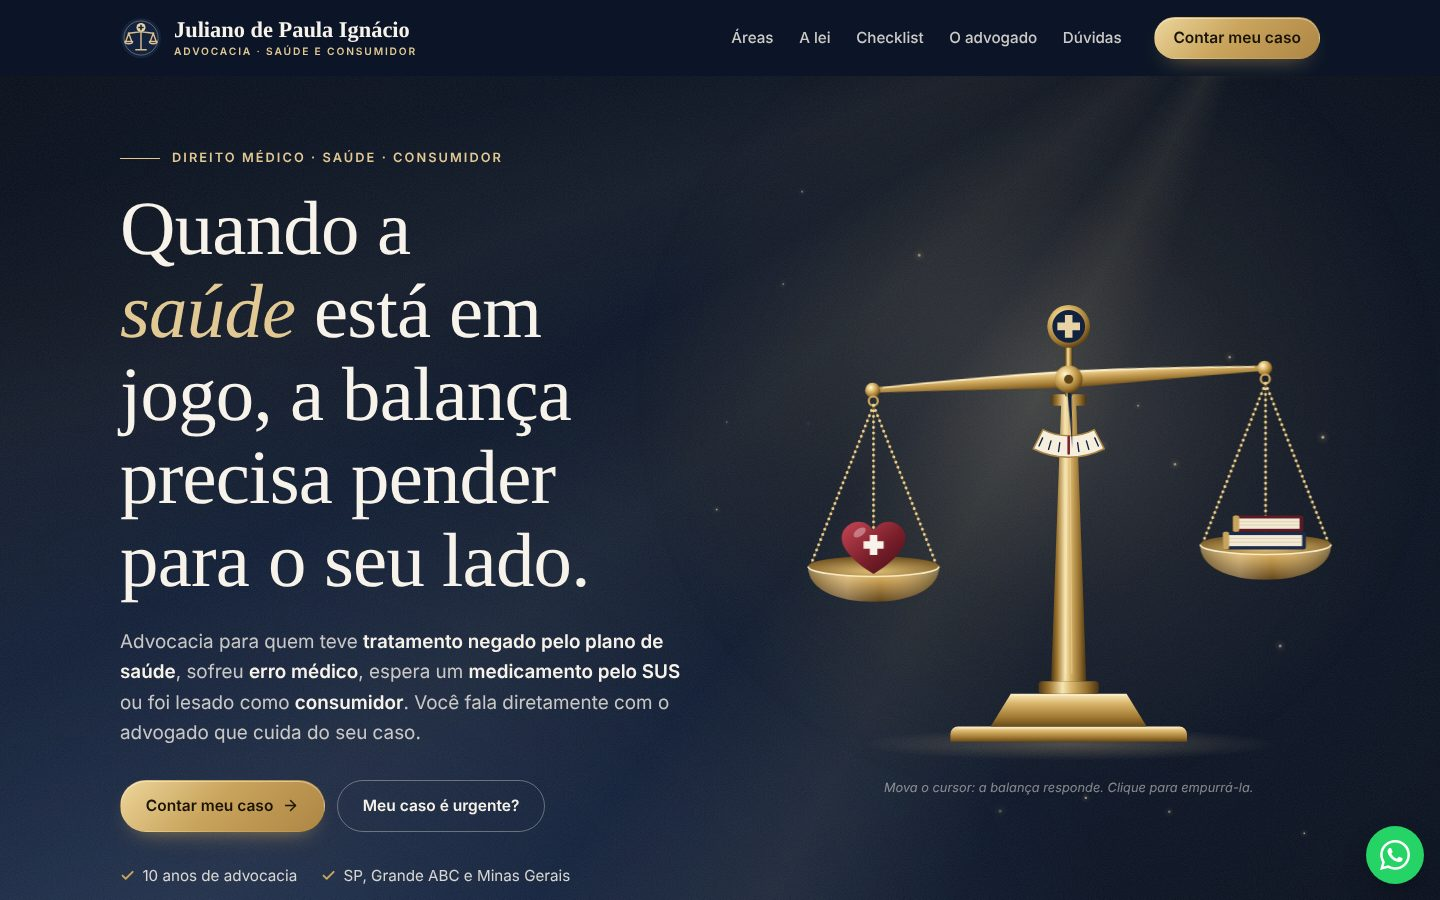
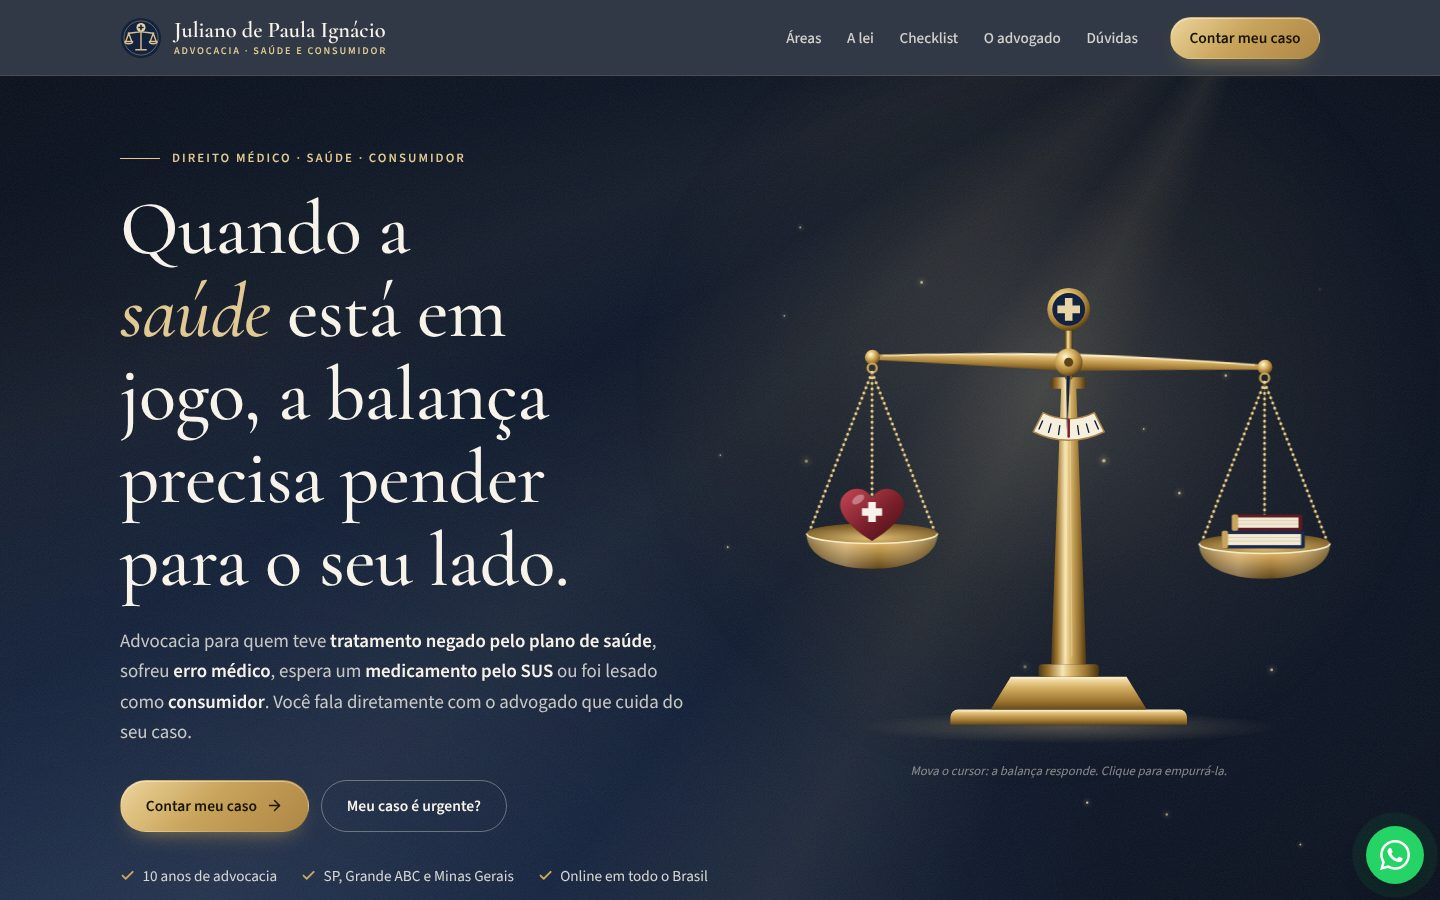
Juliano: camada de vidro, luzes que seguem o cursor e assinatura no rodapé
Claude-Session: https://claude.ai/code/session_01QmiPwcu1vZC3FNQj5DnVy9

diff --git a/modelos/juliano-advocacia/assets/vidro.css b/modelos/juliano-advocacia/assets/vidro.css
@@ -1,0 +1,59 @@
+/* Camada de vidro: translucidez, luz e acabamento sobre o layout original */
+.site-header {
+  background: rgba(11, 21, 39, 0.84);
+  -webkit-backdrop-filter: blur(18px) saturate(1.5);
+  backdrop-filter: blur(18px) saturate(1.5);
+  box-shadow: inset 0 -1px 0 rgba(201, 164, 92, 0.18);
+}
+.site-header.is-scrolled { box-shadow: inset 0 -1px 0 rgba(201, 164, 92, 0.25), 0 18px 40px -26px rgba(0, 0, 0, 0.8); }
+
+/* luzes douradas que se movem por trás do vidro nas seções escuras */
+.section--dark, .credentials, .site-footer { position: relative; isolation: isolate; overflow: clip; }
+.section--dark::after, .site-footer::after {
+  content: ""; position: absolute; z-index: -1; inset: -20%; pointer-events: none;
+  background:
+    radial-gradient(28% 34% at var(--lx, 22%) var(--ly, 30%), rgba(201, 164, 92, 0.16), transparent 70%),
+    radial-gradient(30% 40% at 85% 80%, rgba(80, 120, 200, 0.12), transparent 70%);
+  animation: vidro-luz 18s ease-in-out infinite alternate;
+}
+@keyframes vidro-luz { to { transform: translate(6%, -4%) scale(1.08); } }
+
+/* vidro claro */
+.tabs__panel, .deadlines li {
+  background: rgba(255, 253, 248, 0.58);
+  -webkit-backdrop-filter: blur(20px) saturate(1.4);
+  backdrop-filter: blur(20px) saturate(1.4);
+  box-shadow: inset 0 0 0 1px rgba(255, 255, 255, 0.7), inset 0 1px 0 #fff, 0 30px 60px -40px rgba(19, 35, 63, 0.55);
+}
+.section--light, .section--paper { position: relative; isolation: isolate; }
+.section--light::after, .section--paper::after {
+  content: ""; position: absolute; z-index: -1; inset: 0; pointer-events: none;
+  background: radial-gradient(30% 40% at 12% 30%, rgba(201, 164, 92, 0.16), transparent 70%), radial-gradient(26% 30% at 90% 75%, rgba(19, 35, 63, 0.08), transparent 70%);
+}
+
+/* vidro escuro */
+.check, .checklist__result, .form-card {
+  background: rgba(19, 35, 63, 0.42);
+  -webkit-backdrop-filter: blur(18px) saturate(1.4);
+  backdrop-filter: blur(18px) saturate(1.4);
+  box-shadow: inset 0 0 0 1px rgba(255, 255, 255, 0.07), inset 0 1px 0 rgba(255, 255, 255, 0.1), 0 40px 70px -50px rgba(0, 0, 0, 0.8);
+}
+.checklist__result, .form-card { border-color: rgba(201, 164, 92, 0.35); }
+
+/* brilho que segue o cursor nos cartões */
+.tabs__panel, .deadlines li, .checklist__result, .form-card { position: relative; }
+.vidro-brilho { position: absolute; inset: 0; border-radius: inherit; pointer-events: none; opacity: 0; transition: opacity 0.4s; background: radial-gradient(320px circle at var(--mx, 50%) var(--my, 0%), rgba(201, 164, 92, 0.16), transparent 65%); z-index: 0; }
+:is(.tabs__panel, .deadlines li, .checklist__result, .form-card):hover > .vidro-brilho { opacity: 1; }
+
+/* barra do celular em vidro */
+.mobile-bar { -webkit-backdrop-filter: blur(18px) saturate(1.4); backdrop-filter: blur(18px) saturate(1.4); }
+
+/* assinatura no rodapé, preenchida pela rolagem */
+.vidro-marca {
+  font-family: "Cormorant Garamond", Georgia, serif; font-style: italic; font-weight: 600;
+  font-size: clamp(64px, 15vw, 230px); line-height: 0.9; text-align: center; letter-spacing: -0.02em;
+  margin-top: 2rem; color: transparent; -webkit-text-stroke: 1px rgba(201, 164, 92, 0.3);
+  background: linear-gradient(90deg, #ad8644, #e9cf96, #c9a45c) no-repeat; background-size: var(--fill, 0%) 100%;
+  -webkit-background-clip: text; background-clip: text; user-select: none; white-space: nowrap;
+}
+@media (prefers-reduced-motion: reduce) { .section--dark::after, .site-footer::after { animation: none; } }

diff --git a/modelos/juliano-advocacia/assets/vidro.js b/modelos/juliano-advocacia/assets/vidro.js
@@ -1,0 +1,21 @@
+/* Camada de vidro: brilho no cursor, luz das seções escuras e assinatura do rodapé */
+(() => {
+  const fino = matchMedia("(hover: hover) and (pointer: fine)").matches;
+  const reduz = matchMedia("(prefers-reduced-motion: reduce)").matches;
+  const cards = document.querySelectorAll(".tabs__panel, .deadlines li, .checklist__result, .form-card");
+  cards.forEach((c) => {
+    const b = document.createElement("span"); b.className = "vidro-brilho"; b.setAttribute("aria-hidden", "true"); c.prepend(b);
+    if (fino) c.addEventListener("pointermove", (e) => { const r = c.getBoundingClientRect(); c.style.setProperty("--mx", e.clientX - r.left + "px"); c.style.setProperty("--my", e.clientY - r.top + "px"); });
+  });
+  const escuras = document.querySelectorAll(".section--dark, .site-footer");
+  if (fino && !reduz) addEventListener("pointermove", (e) => {
+    escuras.forEach((s) => { const r = s.getBoundingClientRect(); if (r.bottom < 0 || r.top > innerHeight) return; s.style.setProperty("--lx", ((e.clientX - r.left) / r.width) * 60 + 20 + "%"); s.style.setProperty("--ly", ((e.clientY - r.top) / r.height) * 60 + 20 + "%"); });
+  }, { passive: true });
+  const marca = document.querySelector(".vidro-marca");
+  if (!marca) return;
+  const enche = () => {
+    const r = marca.getBoundingClientRect(), y = scrollY;
+    if (r.top < innerHeight) { const ini = y + r.top - innerHeight, fim = document.documentElement.scrollHeight - innerHeight; marca.style.setProperty("--fill", Math.min(1, Math.max(0, (y - ini) / Math.max(1, fim - ini))) * 100 + "%"); }
+  };
+  addEventListener("scroll", enche, { passive: true }); enche();
+})();

diff --git a/modelos/juliano-advocacia/index.html b/modelos/juliano-advocacia/index.html
@@ -18,6 +18,7 @@
   <link rel="stylesheet" href="https://fonts.googleapis.com/css2?family=Cormorant+Garamond:ital,wght@0,500;0,600;0,700;1,500;1,600&family=Source+Sans+3:wght@400;500;600;700&display=swap">
   <link rel="stylesheet" href="assets/shared/base.css">
   <link rel="stylesheet" href="assets/style.css">
+  <link rel="stylesheet" href="assets/vidro.css">
   <script>
     // Ativa o modo com JS antes da primeira pintura; se lp.js não carregar, volta ao modo sem JS.
     document.documentElement.classList.add('js');
@@ -25,6 +26,7 @@
   </script>
   <script src="assets/shared/lp.js" defer></script>
   <script src="assets/fx.js" defer></script>
+  <script src="assets/vidro.js" defer></script>
 </head>
 <body data-whatsapp="5511970803077">
   <a class="skip-link" href="#conteudo">Pular para o conteúdo</a>
@@ -901,6 +903,7 @@
       <p>© <span data-year>2026</span> Juliano de Paula Ignácio Advocacia</p>
       <p>Conteúdo informativo, conforme o Provimento 205/2021 da OAB.</p>
     </div>
+    <div class="container"><p class="vidro-marca" aria-hidden="true">Juliano</p></div>
   </footer>
 </body>
 </html>
